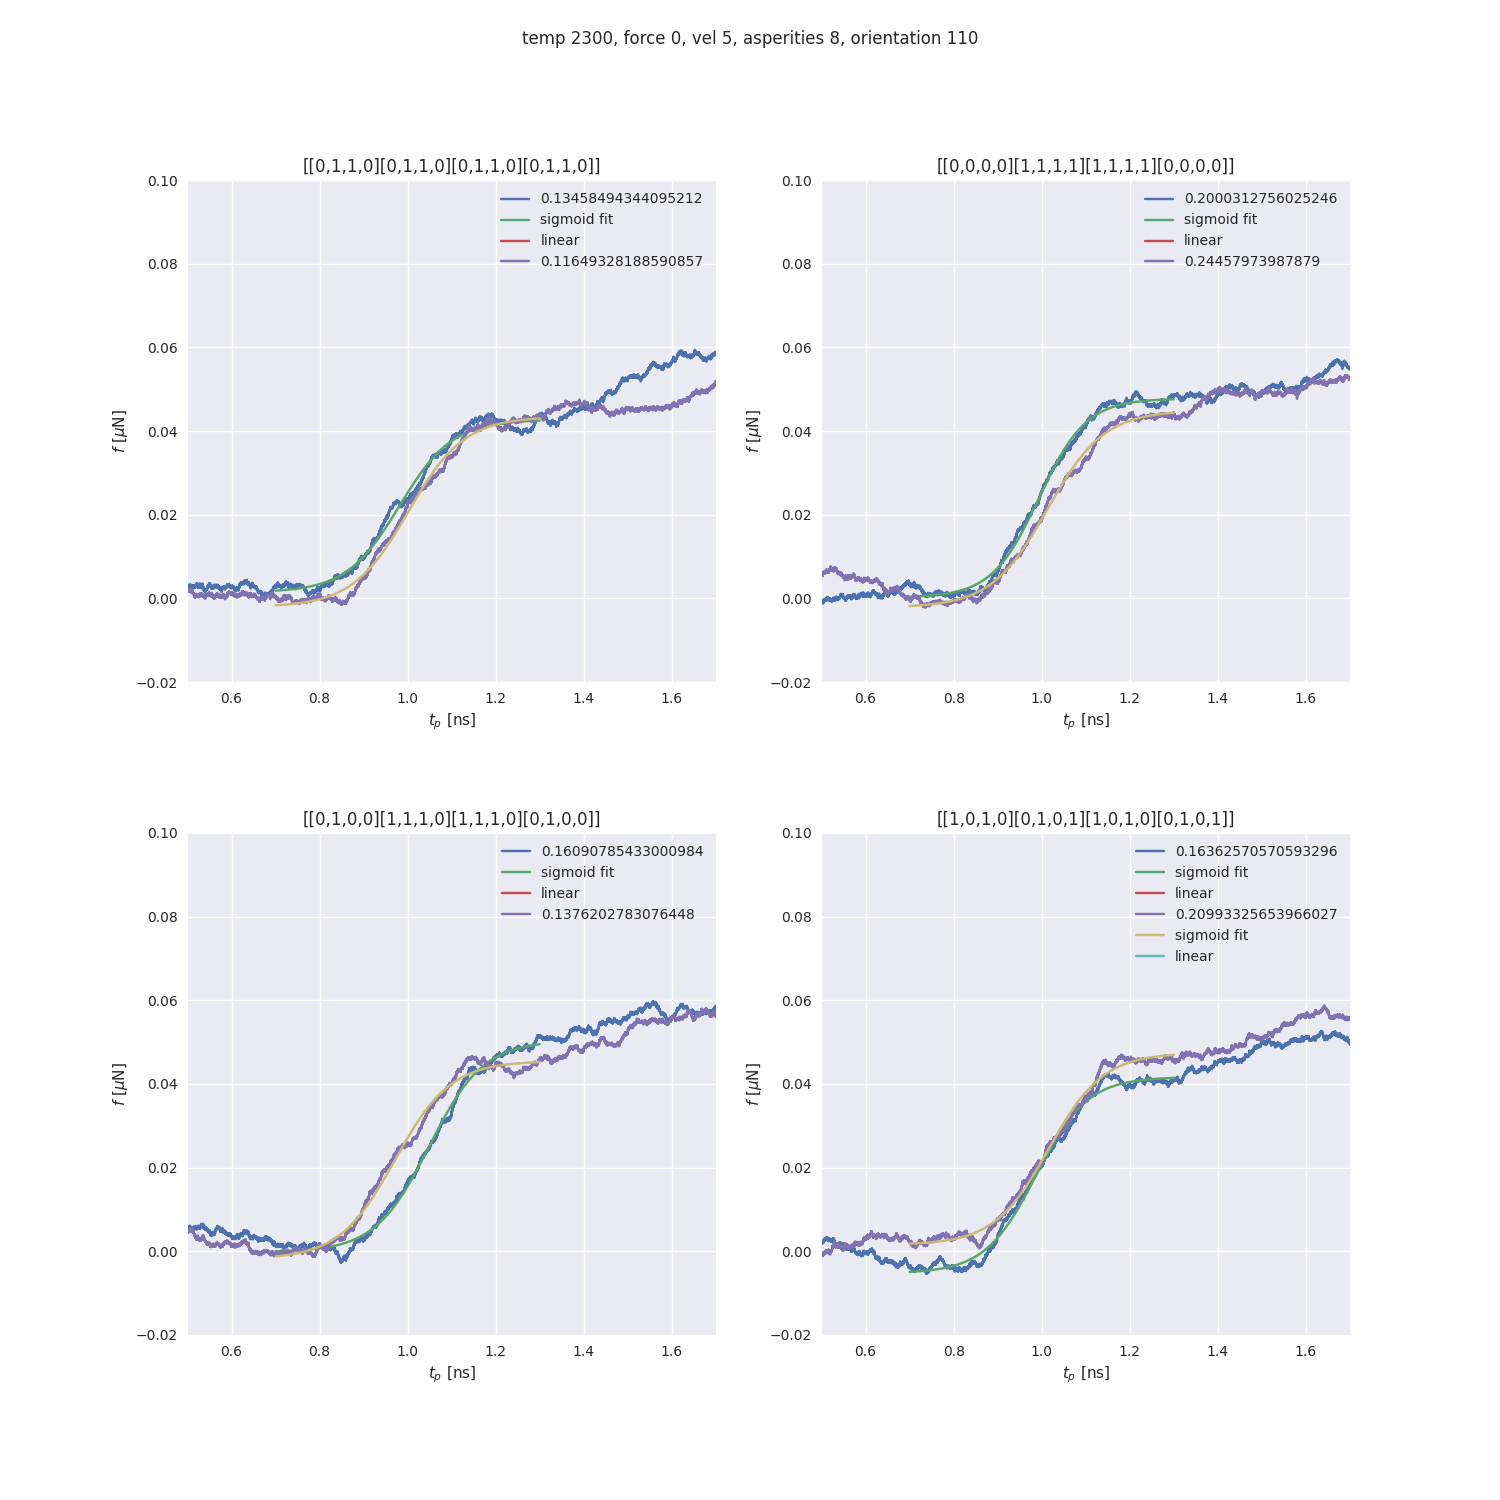
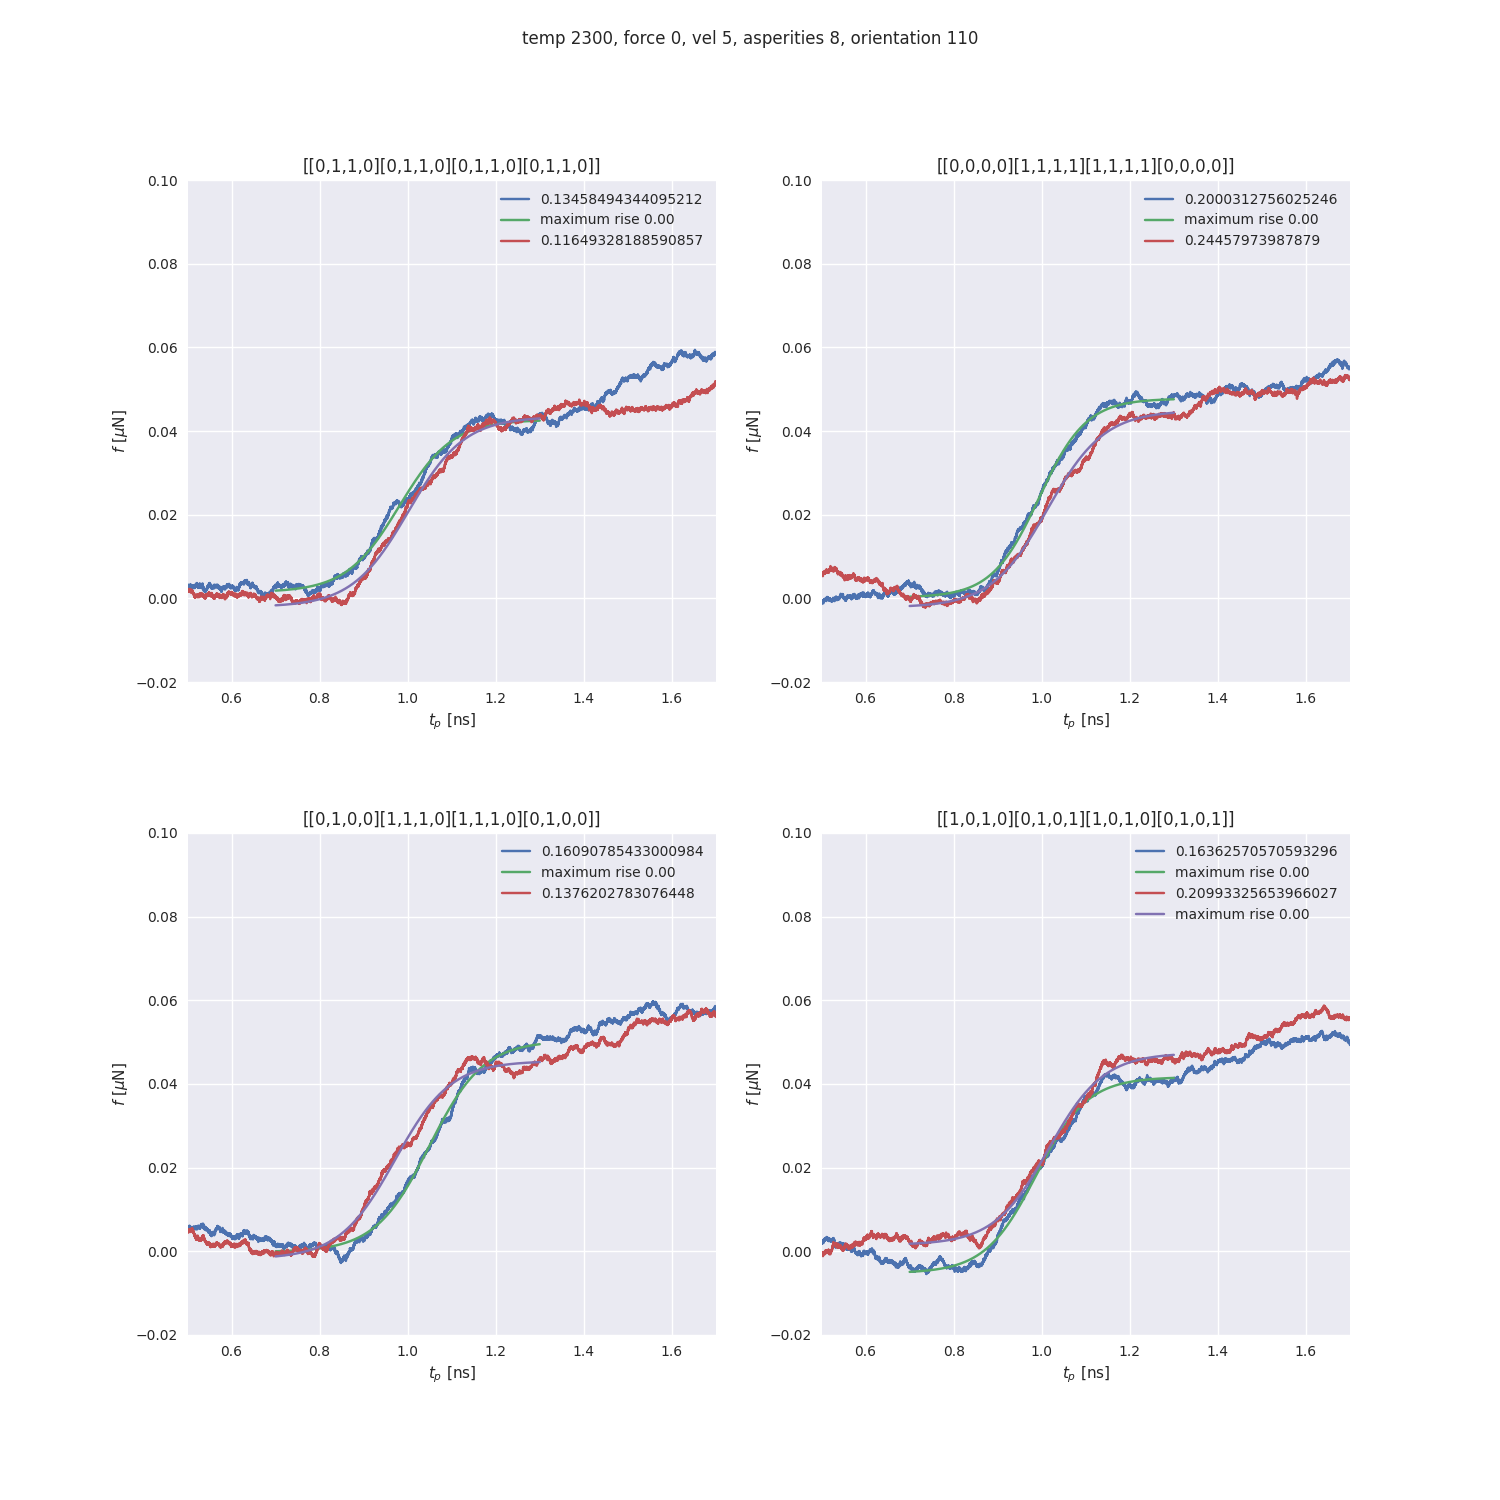
rise is now max of np.gradient

diff --git a/python/plot/plot_load_curves.py b/python/plot/plot_load_curves.py
@@ -532,8 +532,9 @@ def plot_production(temp, vel, force, uc, asperities, time, orientation, grid, e
             try:
                 popt, pcov = curve_fit(sigmoid, time_nnan, load_curve_nnan,p0, method='dogbox')
                 print(popt)
-                axs[i].plot(time_nnan, sigmoid(time_nnan, *popt), label = 'sigmoid fit')
-                axs[i].plot(np.linspace(0.9, 1.2, 1000), np.linspace(0.9,1.2,1000)*popt[1] - popt[-1], label='linear')
+                max_rise = np.max(np.gradient(sigmoid(time_nnan, *popt)))
+                print(f'max rise {max_rise}')
+                axs[i].plot(time_nnan, sigmoid(time_nnan, *popt), label = f'maximum rise {max_rise:.2f}')
             except:
                 print('skipped \n \n')
                 continue #skip this loop iteration
